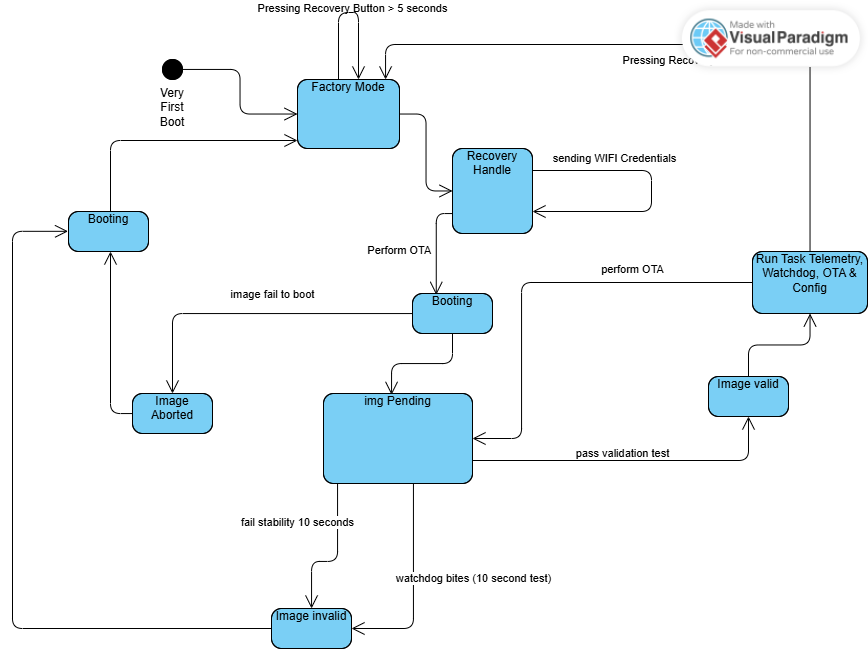
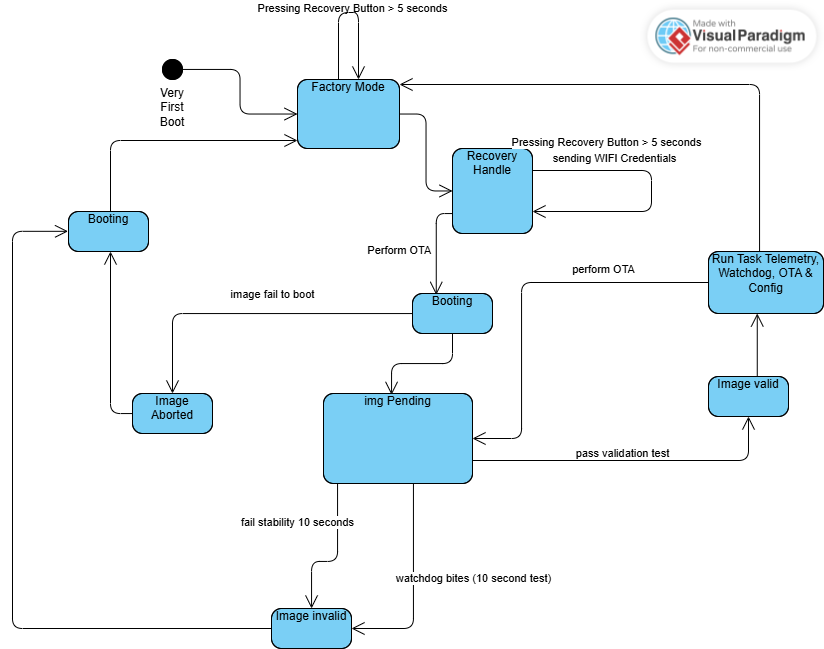
Edit README.md includes pictures and explanations

diff --git a/README.md b/README.md
@@ -1,17 +1,127 @@
-# FOTA Task
+# Firmware Update Task
+
+## Highlevel Architecture
+
+System : 
+- esp32 c3 4 MB internal Flash , Using ESP32 C3 SuperMini Board
+- esp idf  : ESP-IDF v5.5.4
+
+Tools : 
+- Vscode
+
+Partition Table 
+![Alternative text](./assets/Partition_table.png)
+
+Here I use 3 app partitions : 
+- factory (for failsafe)
+- ota_0 
+- ota_1
+
+Using at least 2 app partitions (ota_0 and ota_1), are for safety and rollback usage.
+
+### Files and Directories : 
+| Files/Folder | Explanation | Comments |
+| -------- | -------- | -------- |
+| /main  | main progam  | Row 1 C  |
+| /components  | component modules  | Row 2 C  |
+| /assets  |  image used in README.md |   |
+| /web  |  contains index.hmtl for Recovery Config  |
+| custom_partition.csv  |  custom partition table contain factory, ota_0 , ota_1  |
+| ota_test.py  |  python script for testing ota  |
 
 
 
-## How to Run
+### Components directory : 
+| Files/Folder | Explanation | Comments |
+| -------- | -------- | -------- |
+| /boardled  | driver board led  | Row 1 C  |
+| /config_portal_ap  | http server and webportal  | Row 2 C  |
+| /ota_app  |  handle ota task |   |
+| /task_simulation  |  telemetry, wathcdog, ota & config  |
+| wifi_ble_provisioning  |  NOT USED  |
 
-Follow detailed instructions provided specifically for this example.
+
+## the OTA state machine / flow
+
+![Alternative text](./assets/TASK.png)
+![Alternative text](./assets/WebPortal.png)
+
+## How Rollback Works 
+
+The rollback mechanism lies in this function, since I use native ota API. 
+
+1. First , if image cant reboot then , Based on the state machine above, from previous OTA process the firmware is marked `ESP_OTA_IMAGE_PENDING`. 
+Then since it can boot then it will be marked as `ABORTED`. Then in next booting , bootloader will choose other than this image. It could be factory if no other ota_x available or other ota_x if it has `VALID` mark.
+
+2. If lets say it can boot, this is marked as `ESP_OTA_IMAGE_PENDING_VERIFY` then we perform validation logic.
+
+3. Validation logic contains two process : 
+- First, test 10 seconds stability (I just use vTaskDelay)
+- The simulated watchdog, which I use for loop , every 2.5 seconds `critical_loop_heartbeat` will be set to `false` , if `critical_loop_heartbeat` is not updated to `true`. If will mark the firmware as `INVALID` and then reboot the device. In my case I create simple task to change the variable to `true`. The time window for this validation test is 10 secodns, so 4 times changing the variable.
+
+4. If it pass all validation tests. Then the firmware will be marked as `VALID` and continue to run other tasks logic (Telemetry, OTA Task).
 
 
-Config related to FOTA
-CONFIG_BOOTLOADER_APP_ROLLBACK_ENABLE=y
-CONFIG_ESP_HTTPS_OTA_DECRYPT_FIRMWARE=n
+```c
+void run_ota_logic(void) {
+    ESP_LOGI(TAG, "Running OTA logic...");
+    // 1. Check for available OTA updates
+    // 2. Download and install updates if available
+    // 3. Reboot if necessary
+    const esp_partition_t *running = esp_ota_get_running_partition();
+    esp_ota_img_states_t ota_state;
+    if (esp_ota_get_state_partition(running, &ota_state) == ESP_OK) {
+        if (ota_state == ESP_OTA_IMG_PENDING_VERIFY) {
+
+            // Validation logic: If the app is running correctly, mark it as valid to cancel rollback
+            ESP_LOGI(TAG, "App is in PENDING_VERIFY state. Starting stability checks...");
+            // 1. Simulate stability period 10 seconds.
+            vTaskDelay(pdMS_TO_TICKS(10000)); // Simulate some validation checks
+            bool system_checks_passed = true; 
+
+            // 2. Simulate a watchdog check
+            for (int i = 0; i < 4; i++) {
+                vTaskDelay(pdMS_TO_TICKS(2500));
+        
+                if (!critical_loop_heartbeat) {
+                    ESP_LOGE(TAG, "CRITICAL WATCHDOG ERROR: Loop is frozen inside the 10s stability window!");
+                    esp_ota_mark_app_invalid_rollback_and_reboot(); 
+                }
+                critical_loop_heartbeat = false; 
+            }
+
+            if (system_checks_passed) {
+                esp_err_t err = esp_ota_mark_app_valid_cancel_rollback();
+                if (err == ESP_OK) {
+                    ESP_LOGI(TAG, "🏆 SUCCESS: Stability period met! New firmware locked in permanently.");
+                } else {
+                    ESP_LOGE(TAG, "Failed to confirm validity flag: %s", esp_err_to_name(err));
+                }
+            } else {
+                ESP_LOGE(TAG, "🚨 Self-checks failed during stability period! Forcing manual rollback...");
+                esp_ota_mark_app_invalid_rollback_and_reboot();
+            }
+        }
+    }
+
+    normal_blink();
+    while(1) {
+        vTaskDelay(pdMS_TO_TICKS(1000));
+    }
+}
+```
 
 
-CONFIG_ESP_TLS_INSECURE=y
-CONFIG_ESP_TLS_SKIP_SERVER_CERT_VERIFY=y
+
+
+## NVS Keys Lists
+
+| Macro Name           | NVS Key / Namespace | Explanation                                        |
+| -------------------- | ------------------- | -------------------------------------------------- |
+| `NVS_WIFI_NAMESPACE` | `wifi_store`        | Namespace used to store WiFi-related settings      |
+| `NVS_KEY_SSID`       | `wifi_ssid`         | Key for storing the WiFi network SSID              |
+| `NVS_KEY_PASS`       | `wifi_pass`         | Key for storing the WiFi network password          |
+| `NVS_OTA_NAMESPACE`  | `stored_ota`        | Namespace used to store OTA update information     |
+| `NVS_KEY_OFFSET`     | `bytes_written`     | Key for tracking OTA update progress (byte offset) |
+
 